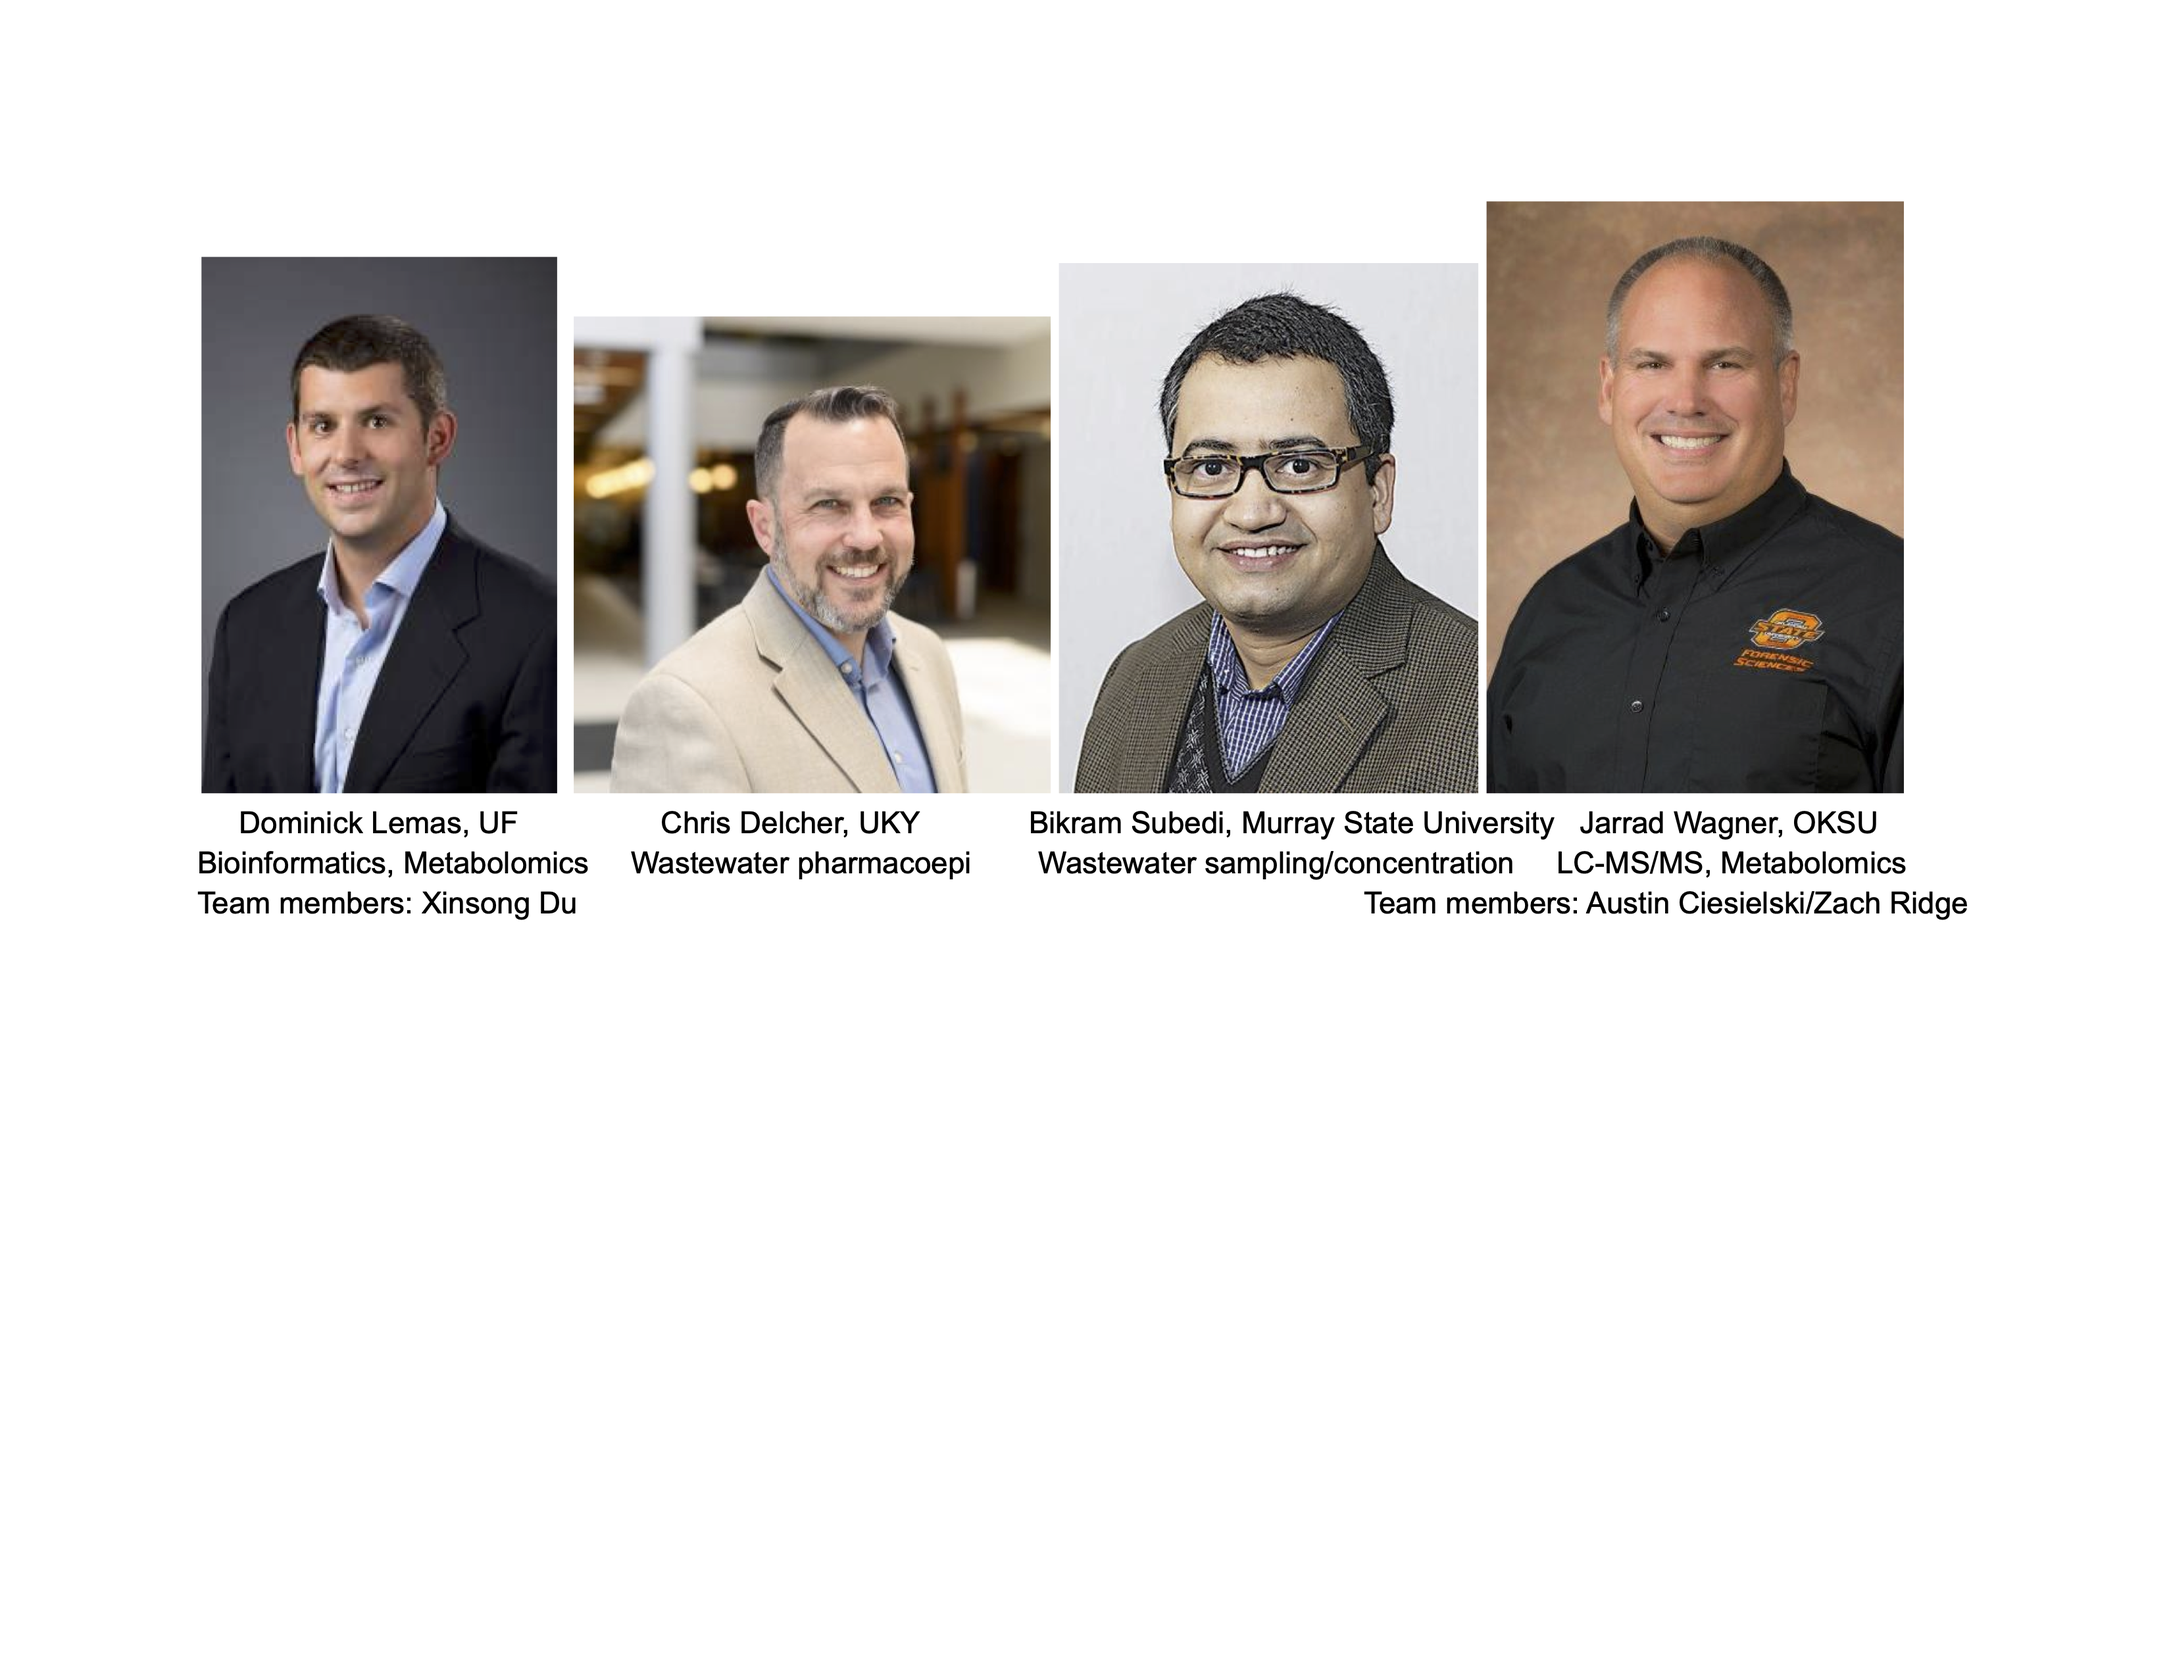
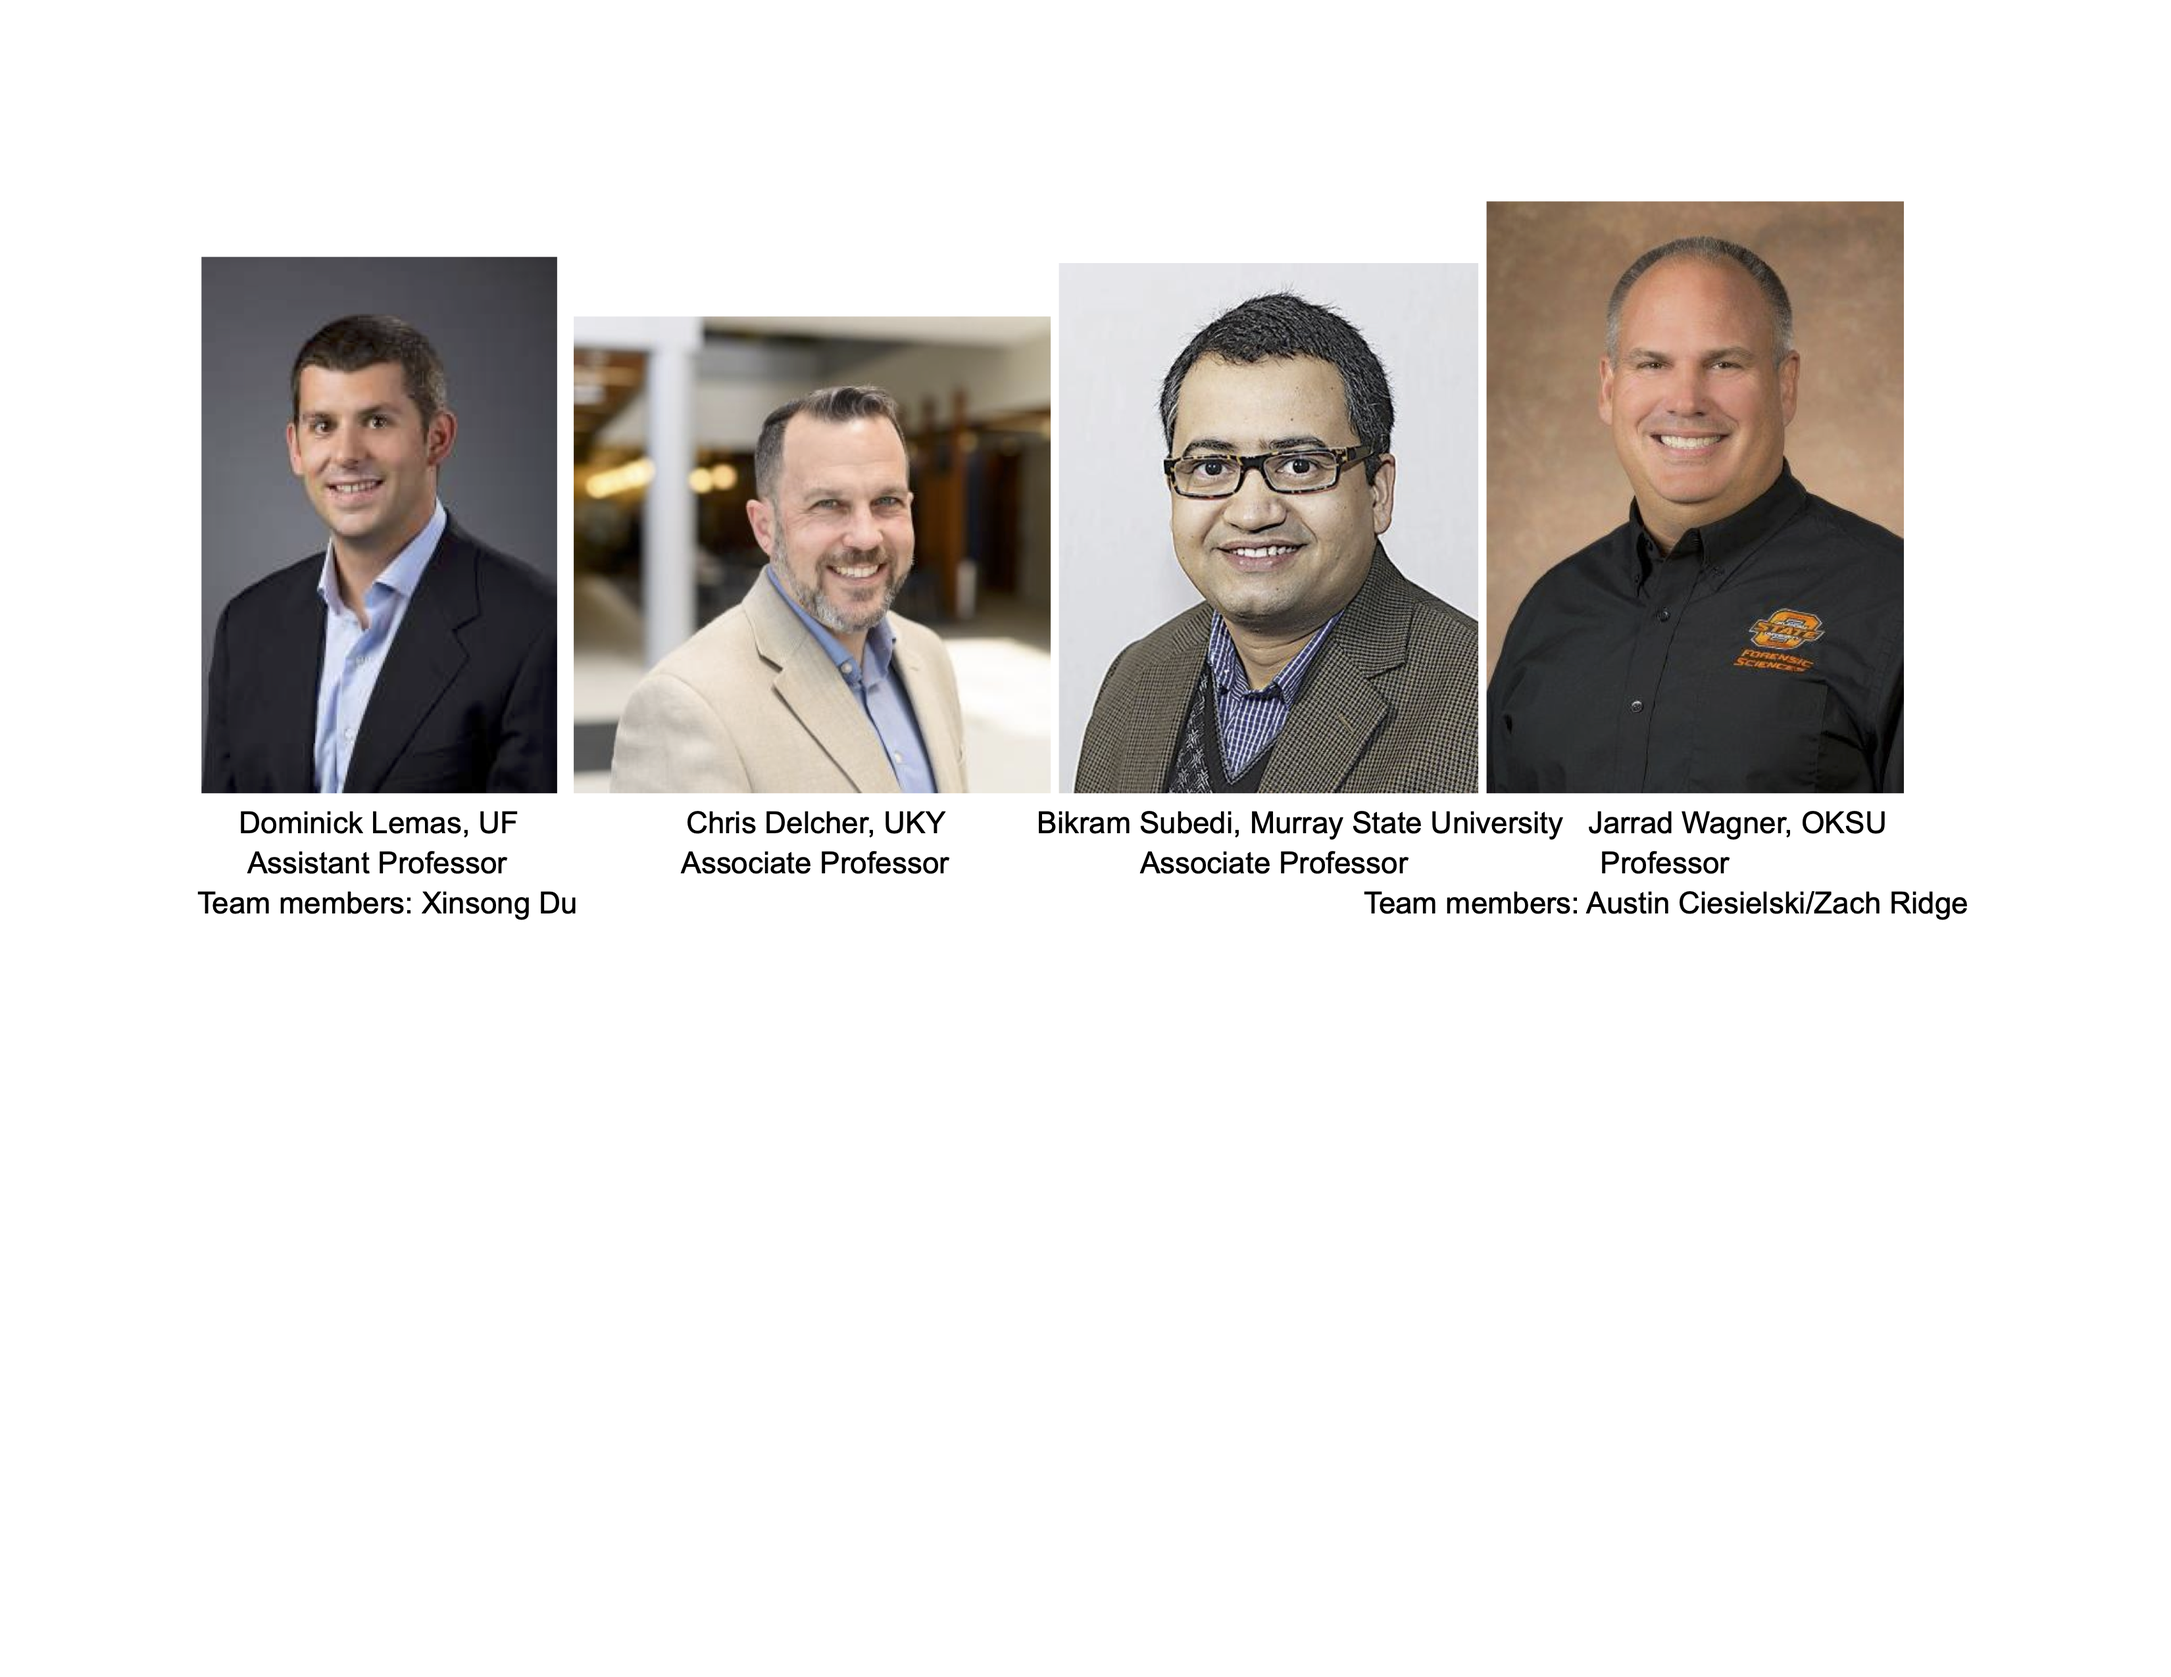
Update talk

Changed region(s): [[0.4682, 0.4647, 0.8739, 0.5267], [0.0936, 0.4647, 0.437, 0.5267]]

diff --git a/talk.html b/talk.html
@@ -35,16 +35,14 @@ background-size: cover
 
 ---
 
-background-image: url("talk_files/mgs_ph.png")
-background-size:contain
-
----
-
 # Mass gatherings and substance use
 
 - Could provide a window into community substance use
 - A particular community could have a certain profile of substance use, leading to targeted interventions
 
+---
+background-image: url("talk_files/mgs_ph.png")
+background-size:contain
 ---
 background-image: url("https://image.cnbcfm.com/api/v1/image/106666956-1597694787011-2018-09-22T014903Z_502209526_RC131D7A3900_RTRMADP_3_USA-UNIVERSITY-UNC.jpg?v=1597694880&amp;w=929&amp;h=523&amp;ffmt=webp")
 background-size: cover
@@ -63,13 +61,28 @@ background-size: cover
 ## Matthew Loop
 
 - PhD in Biostatistics / Postdoctoral Fellowship in Epidemiology from UAB
-- Since 2020 have been an Assistant Professor in the Division of Pharmacotherapy and Experimental Therapeutics at the UNC Eshelman School of Pharmacy
+- Assistant Professor at UNC since 2016
+- Currently in Division of Pharmacotherapy and Experimental Therapeutics at the UNC Eshelman School of Pharmacy
 ]
 
 .pull-right[
 ![](https://chapelboromedia.s3.amazonaws.com/uploads/2021/08/11133513/Beard-Hall.jpg)
 - "Statidemiologist" who estimates the effects of drugs using observational data
 ]
+
+---
+# Measuring drugs consumed is hard
+
+- Postdoctoral fellowship work was on beta blocker use and heart failure among Medicare beneficiaries
+- We have to measure proxies for watching someone put the pill in the mouth and swallow it
+- Partnering with basic sciences allowed us to obtain objectives measures of use in a *population*
+
+---
+# Aims
+
+1. Determine whether we can detect metabolites and parent compounds of substances commonly abused during a college football game using waste water sampling
+2. Model the concentrations for most commonly observed substances
+3. Estimate the number of doses of these substances consumed
 
 ---
 
@@ -80,7 +93,7 @@ background-size: cover
 
 class: center, middle, inverse
 
-## So, where might you go to look for substances abused at a mass gathering?
+## So, where might you go to look for substances commonly abused?
 
 ---
 
@@ -98,6 +111,9 @@ background-size: cover
 ![](https://www.teledyneisco.com/en-us/waterandwastewater/Product%20Images/3700C.jpg)
 
 ---
+background-image: url("talk_files/bb8.jpeg")
+background-size:contain
+---
 
 background-image: url("talk_files/sampler.jpeg")
 background-size:contain
@@ -107,23 +123,11 @@ background-size:contain
 background-image: url("talk_files/taking_sample.jpeg")
 background-size:contain
 ---
-
-background-image: url("talk_files/bb8.jpeg")
-background-size:contain
-
----
-
-background-image: url("talk_files/box.jpeg")
-background-size:contain
----
-
-
 # Measure the drug concentrations
 - Wastewater samples underwent solid phase extraction
 - Samples were run on two different machines
     - Waters Acuity TQD LC-MS/MS (designed for wastewater; broad range)
     - Shimadzu 8040 LC-MS/MS (designed for urine samples; smaller range)
-
 ---
 
 background-image: url("talk_files/missing_data.png")
@@ -156,6 +160,7 @@ background-size: contain
 - Basically a linear regression model with variables to represent group, but the variables are *special*
 - Our groups were: location of measurement (3 levels), lab member who performed the solid-phase extraction (2 levels), and machine we ran the LC-MS on (2 levels)
 - Multilevel models "borrow" information from one level to predict the mean of another level
+- Borrowing leads to better estimates when some groups are small
 
 ---
 # Model the concentration values
@@ -177,18 +182,14 @@ background-image: url("talk_files/02_marginal_means.png")
 background-size: contain
 
 ---
-background-image: url("talk_files/ppcs_amphetamine.png")
-background-size: contain
-
----
 
 # Estimate consumption
 
 1. Estimate the flow of water during last 30 minutes
+    - used measurement at central station then weighted each location according to stadium capacity
 2. Estimate "mass load" (mg of compound) based on concentration and flow over last 30 minutes
-    - calculation involves a lot of assumptions about proportion of stadium water flow through that location and the stability of the compounds
 3. Estimate the number of doses consumed over entire sampling period
-    - more assumptions about excretion rate, ratio of molecular weights of parent compound to metabolite (e.g., cocaine to benzoylecgonine), and typical dose
+    - assumed excretion rate, ratio of molecular weights of parent compounds to metabolites (e.g., cocaine to benzoylecgonine), and typical doses
 
 ---
 background-image: url("talk_files/mass_load_time.png")
@@ -210,9 +211,8 @@ background-size: contain
 # Limitations
 
 - Study sampling process of "using the bathroom in the stadium during a game" is imperfect representation of substance use in Gainesville community
-- A ton of assumptions from estimated concentration to number of doses throughout the game
+- We made assumptions to estimate concentration to number of doses throughout the game
 - Cannot distinguish between recreational use and indicated use
-- Cannot distinguish between before stadium entry use and during game use
 
 ---
 # Strengths
@@ -232,6 +232,15 @@ background-size: contain
 class: inverse, middle, center
 
 # Questions
+
+---
+class: inverse, middle, center
+
+# Extra slides
+
+---
+background-image: url("talk_files/ppcs_amphetamine.png")
+background-size: contain
     </textarea>
 <style data-target="print-only">@media screen {.remark-slide-container{display:block;}.remark-slide-scaler{box-shadow:none;}}</style>
 <script src="https://remarkjs.com/downloads/remark-latest.min.js"></script>
